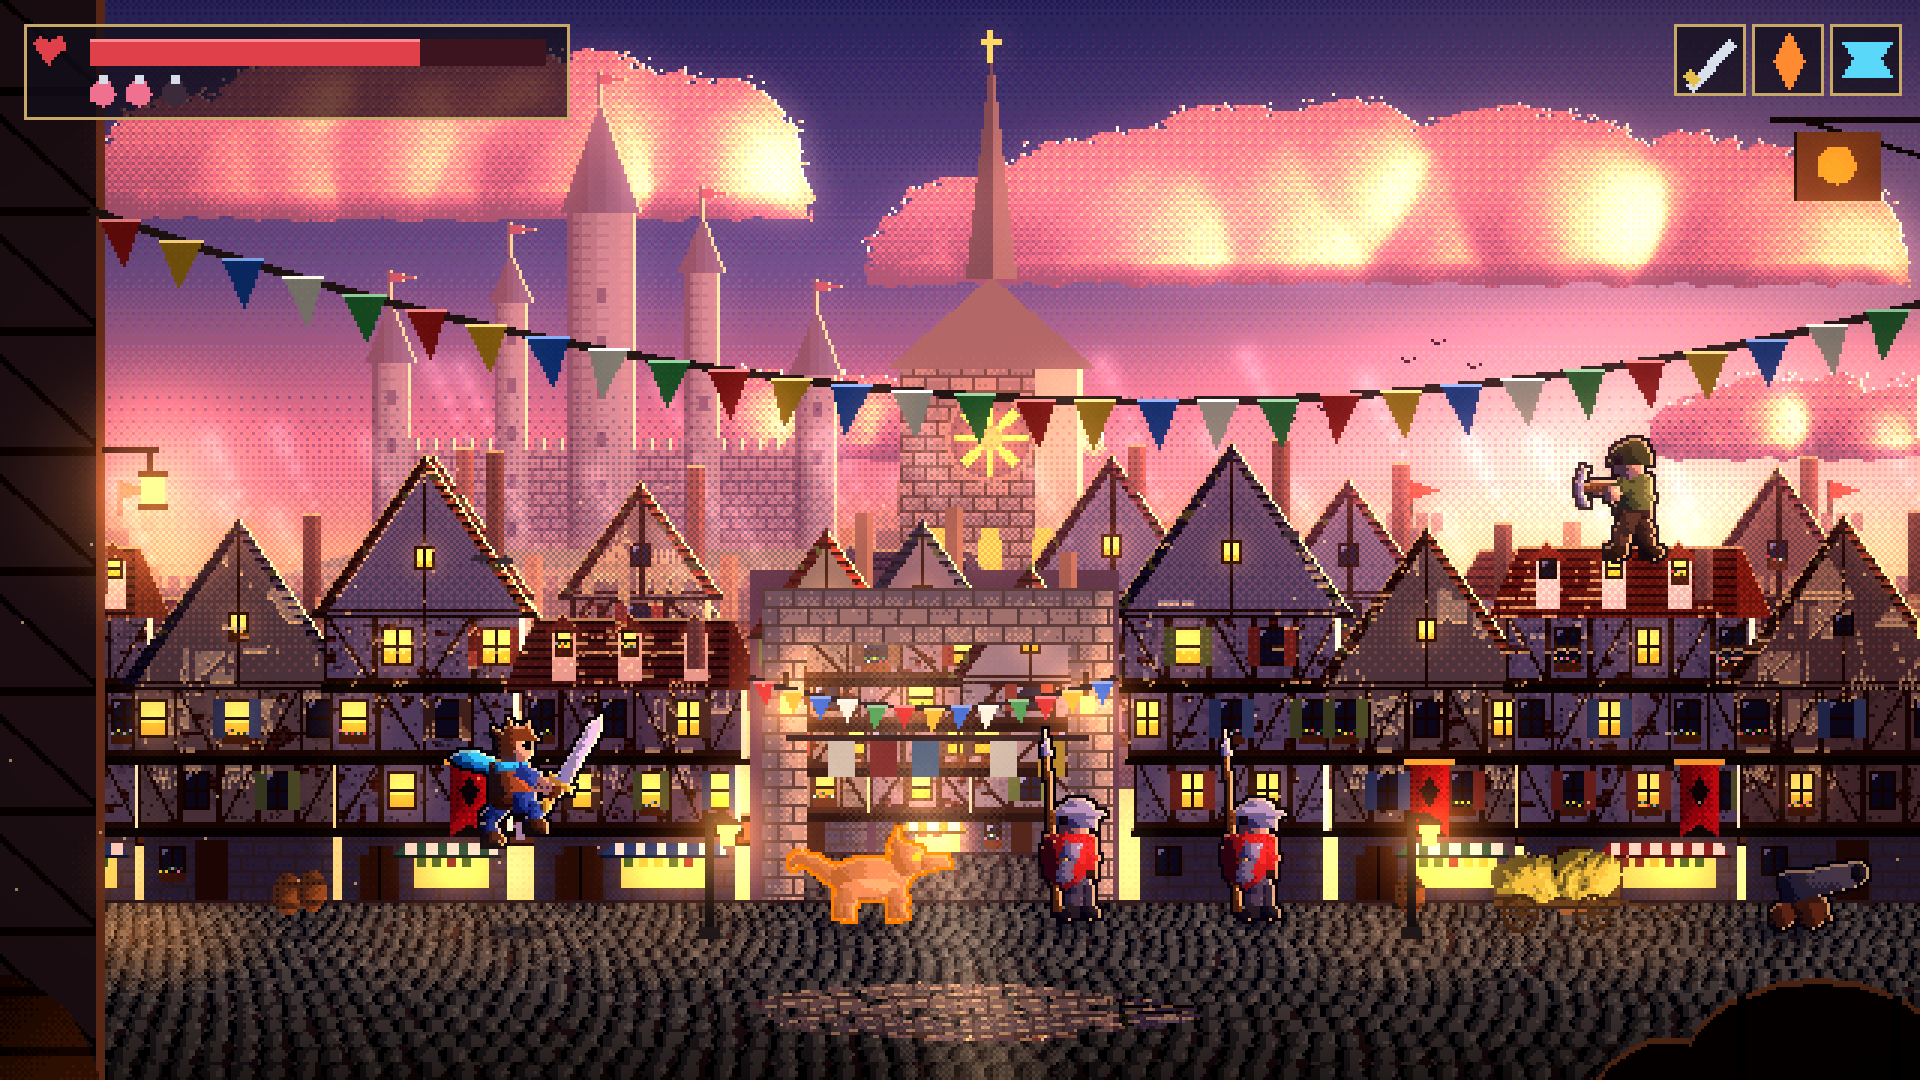
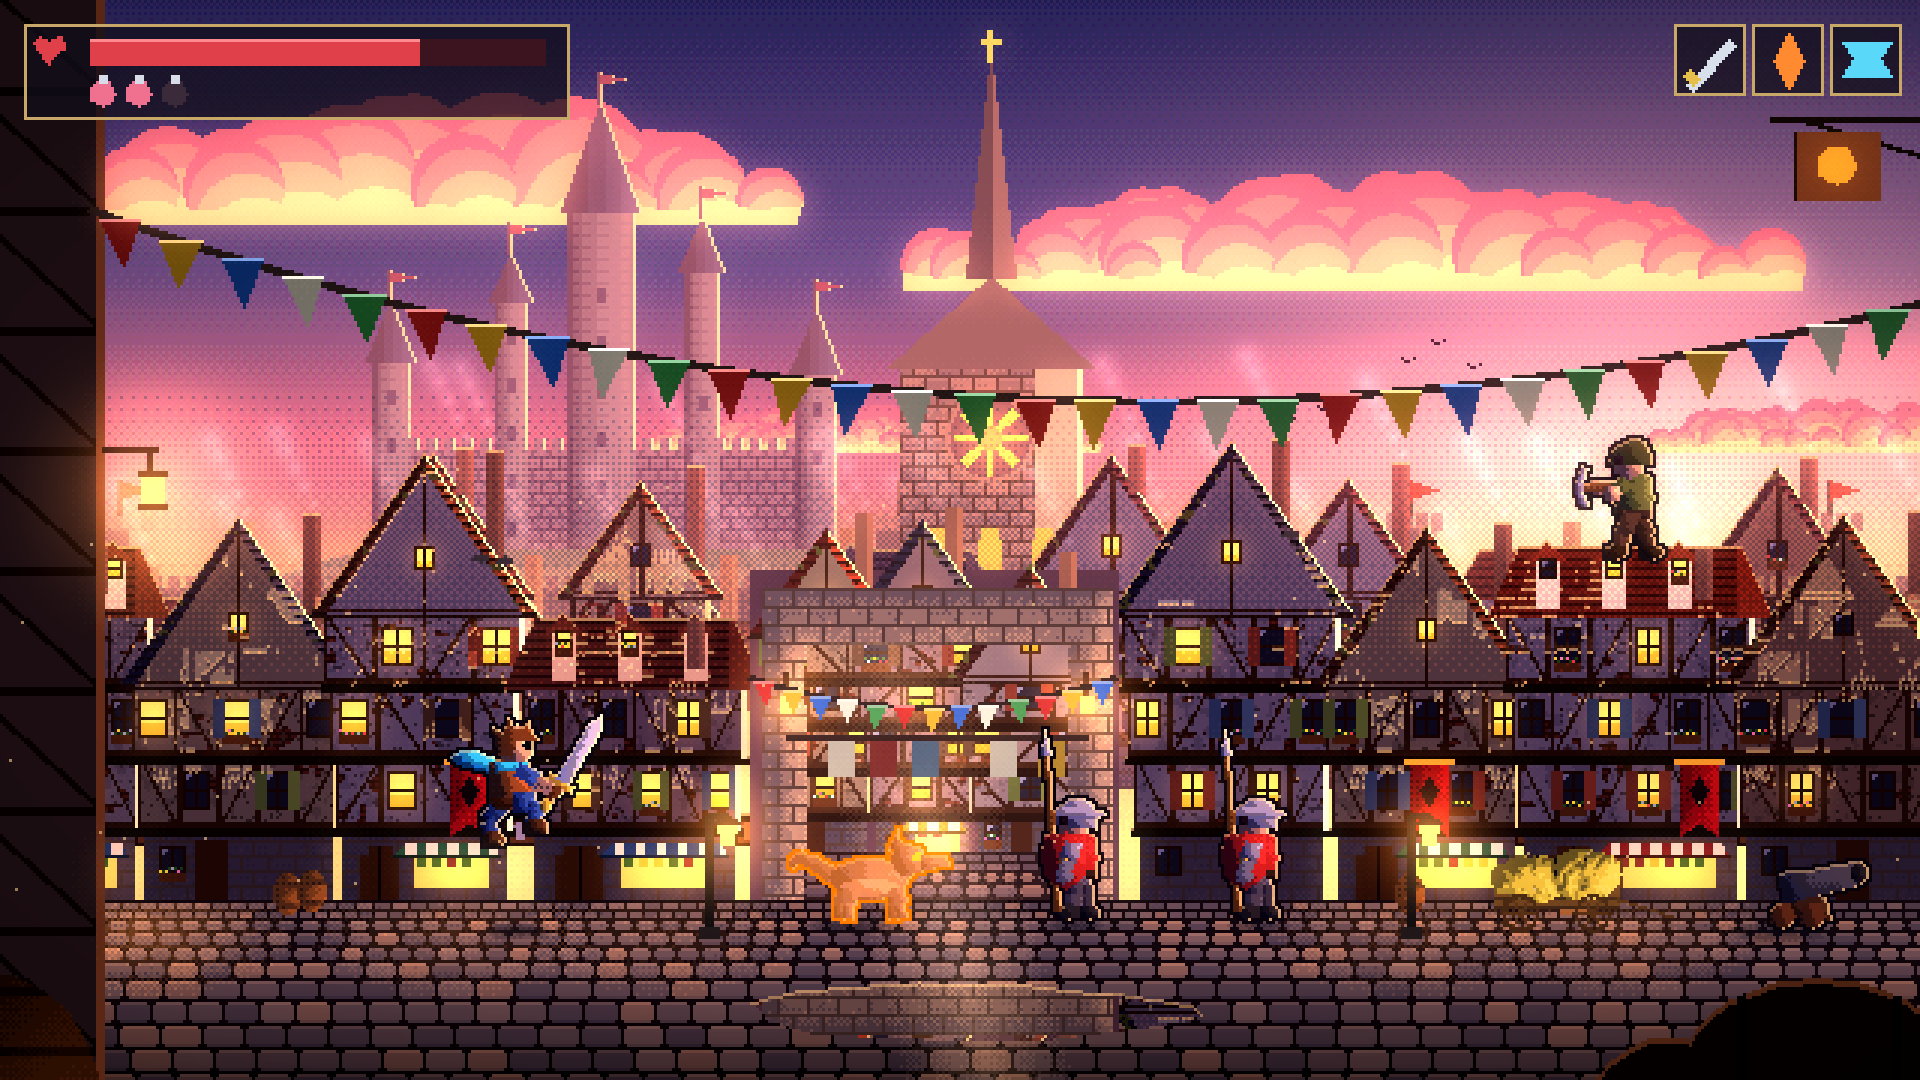
ART13b: less realistic, more stylised: cartoon cumulus in flat tones, chiselled slab rocks, cleaner mountains, tidy cobblestone street in the town
Claude-Session: https://claude.ai/code/session_018E1RbT7Agev2Psz4WcAtF7

diff --git a/tools/art/final_stages.py b/tools/art/final_stages.py
@@ -205,7 +205,7 @@ def leaves(img, m, hf, base, d, seed, cell=3.0, contrast=1.0, edge=True, ramp=No
     if crown is not None:
         ccx, ccy, R = crown
         t = t + ((XX - ccx) / R * L[0] + (YY - ccy) / R * L[1]) * 0.18
-    ramp_fill(img, m, t, ramp, d, 0.3)
+    ramp_fill(img, m, t, ramp, d, 0.1)
     return m
 
 
@@ -322,7 +322,7 @@ def fir(img, x, base, h, w, d, rng, needle=C('#2e5a3a'), snow=0.0, seed=0, bare=
         v = np.clip((Y - top) / np.maximum(1, thick), 0, 1.3)
         side = np.clip(dx / r, -1, 1) * np.sign(L[0])
         t = 0.6 - v * 0.5 + side * 0.2 + (streak - 0.5) * 0.35 - u * 0.06
-        idx = np.clip(np.floor(t * 7 + (bay - 0.5) * 0.4), 0, 6).astype(int)
+        idx = np.clip(np.floor(t * 7 + (bay - 0.5) * 0.12), 0, 6).astype(int)
         col = aerial(ramp[idx], d)
         sub[inside] = col[inside]
         if snow > 0:
@@ -837,37 +837,49 @@ def ridged(x, y, oct_, seed):
     return 1 - np.abs(2 * fbm(x, y, oct_, seed) - 1)
 
 
+def _zig(seed, step, amp=1.0):
+    """An angular zigzag along x: random heights at knots, straight lines between them."""
+    rng = np.random.default_rng(seed)
+    knots = np.arange(-step, W + step * 2, step) + rng.uniform(-step * 0.3, step * 0.3, len(np.arange(-step, W + step * 2, step)))
+    return np.interp(XX[0], knots, rng.uniform(-1, 1, len(knots))) * amp
+
+
 def crag(img, m, alb, d, seed, scale=1.0, snowline=None, snow_k=0.5, strata=True):
-    """Natural rock: one big lit form broken into chunky blocks and ledges by warped ridged noise, a few deep cracks,
-    lichen and moss on the faces that look up; snow on upward faces above the snowline."""
+    """A stylised rock in a few flat tones: a light top plane, a mid front and a dark base, the planes meeting along
+    angular edges; big slabs split by a few dark seams; a bright line on the top edge. No noise, no dithering."""
     if not m.any():
         return
-    wx = XX + (fbm(XX / 22, YY / 22, 3, seed) - 0.5) * 18 * scale
-    wy = YY + (fbm(XX / 22, YY / 22, 3, seed + 9) - 0.5) * 18 * scale
-    big = _blur(m.astype(np.float32), 26 * scale) * 120 * scale + _blur(m.astype(np.float32), 5 * scale) * 14 * scale
-    F1, F2, DX, DY, ID = worley(max(3.0, 9 * scale), seed, 1.4, 0.8)
-    chunk = -_blur(F1.astype(np.float32), 1.0) * 10 * scale                    # chunky blocks, soft-edged
-    g = ridged(wx / (16 * scale), wy / (11 * scale), 4, seed)
-    hf = big + chunk + g * 7 * scale + fbm(wx / (4 * scale), wy / (4 * scale), 2, seed + 1) * 2.5 * scale
-    macro = macro_light(hf)
-    t = 0.04 + macro * 0.86
-    if strata:
-        t = t - np.where(np.sin((wy * 0.8 + wx * 0.1) * 0.55) > 0.95, 0.12, 0)
-    cracks = m & (np.abs(fbm(wx / 8, wy / 4, 3, seed + 4) - 0.5) < 0.006) & (macro < 0.55)
-    t = np.where(cracks, 0.02, t)
-    ramp = make_ramp(alb, 7, hi_k=0.5)
-    ramp_fill(img, m, t, ramp, d, 0.12)
-    gy, gx = np.gradient(_blur(hf, 1.0))
-    upf = -gy / np.sqrt(gx * gx + gy * gy + 1)
-    if d > 0.45:
-        moss = m & (upf > 0.45) & (fbm(XX / 4, YY / 3, 3, seed + 6) > 0.5) & ~np.roll(m, 7, 0)
-        mc = aerial(mix(C('#5a8a3a'), alb, 0.25) * (0.7 + macro[..., None] * 0.5), d)
-        img[moss] = img[moss] * 0.25 + mc[moss] * 0.75
+    L = P['L']
+    ys, xs = np.nonzero(m)
+    cx, hw = (xs.min() + xs.max()) / 2.0, max(4.0, (xs.max() - xs.min()) / 2.0)
+    col_h = np.maximum(m.sum(axis=0), 1).astype(np.float32)[None, :]             # the rock's height in each column
+    dtop = np.cumsum(m, axis=0).astype(np.float32)
+    ref = np.minimum(col_h, 80.0)                                             # tall cliffs keep bands of a sensible size
+    step = max(8.0, 26.0 * scale)
+    b1 = ref * 0.24 + _zig(seed + 1, step, 1.0) * ref * 0.1 + 1.5
+    b2 = ref * 0.62 + _zig(seed + 2, step * 1.3, 1.0) * ref * 0.12
+    band = (dtop > b1).astype(np.int32) + (dtop > b2).astype(np.int32)        # 0 top, 1 front, 2 base
+    t = np.choose(band, [0.84, 0.56, 0.3]).astype(np.float32)
+    t = t + (XX - cx) / hw * 0.1 * np.sign(L[0])
+    bw = max(10.0, 34.0 * scale)                                              # big slabs across the front
+    slab_x = XX + _zig(seed + 3, 9, 1.0)[None, :] * 0 + np.interp(YY[:, 0], np.arange(0, H + 12, 12),
+                                                                  np.random.default_rng(seed + 4).uniform(-4, 4, len(np.arange(0, H + 12, 12))))[:, None]
+    rowh = max(9.0, bw * 0.7)
+    sj = np.floor((dtop + _zig(seed + 5, step * 1.5, 1.0)[None, :] * rowh * 0.3) / rowh)
+    si = np.floor((slab_x + (sj % 2) * bw * 0.5) / bw)
+    hsh = np.modf(np.abs(np.sin(si * 78.233 + sj * 37.719 + seed) * 43758.5453))[0]
+    t = t + np.where(band > 0, (hsh - 0.5) * 0.2, 0)
+    seam = (band > 0) & ((si != np.roll(si, 1, 1)) | (sj != np.roll(sj, 1, 0)))
+    t = np.where(seam, t - 0.25, t)
+    edge1 = (band == 1) & (np.roll(band, 1, 0) == 0)                             # the top plane's front edge catches light
+    t = np.where(edge1, 0.98, t)
+    top = m & ~np.roll(m, 1, 0)
+    t = np.where(top, 1.0, t)
+    ramp = make_ramp(alb, 5, deep=mix(P['amb'] * 0.4, np.asarray(alb, np.float32) * 0.3, 0.5), hi_k=0.45)
+    ramp_fill(img, m, t, ramp, d)
     if snowline is not None:
-        sl = snowline + (fbm(XX / 30, YY * 0, 3, seed + 5) - 0.5) * 50
-        snow = m & (YY < sl) & (upf + (fbm(XX / 6, YY / 5, 3, seed + 7) - 0.5) * 0.6 > 0.3 - snow_k * 0.3)
-        sr = make_ramp(C('#e4ecf8'), 6, deep=C('#2a3a6a'), hi=C('#ffffff'), hi_k=0.9)
-        ramp_fill(img, snow, 0.15 + macro * 0.85, sr, d, 0.3)
+        snow = m & (YY < snowline) & (band == 0)
+        fill(img, snow, aerial(C('#f2f6ff'), d))
 
 
 def ridge_mountain(img, summit, base_y, height, d, seed, alb, snowline=None, arms=(150, 30, 100), spread=1.0):
@@ -898,24 +910,24 @@ def ridge_mountain(img, summit, base_y, height, d, seed, alb, snowline=None, arm
         t = np.clip(((WX - x0) * vx + (WY - y0) * vy) / L2, 0, 1)
         dist = np.hypot(WX - x0 - t * vx, WY - y0 - t * vy)
         hf = np.maximum(hf, h0 + (h1 - h0) * t - dist * 1.0)
-    hf = hf + ridged(WX / 9, WY / 6, 4, seed + 13) * amp * 0.9 + fbm(XX / 3, YY / 3, 2, seed) * 1.2
+    hf = hf + ridged(WX / 16, WY / 10, 2, seed + 13) * amp * 0.5
     m = np.maximum.accumulate(hf > 0, axis=0) & (YY < base_y)          # solid below its outline
     gy, gx = np.gradient(hf)
     Lv = P['L']
     nrm = np.sqrt(gx * gx + gy * gy + 0.6)
     face_l = np.clip((-gx * Lv[0] - gy * Lv[1] + 0.6 * Lv[2]) / nrm, 0, 1)
     t = 0.04 + face_l * 0.88
-    ramp = make_ramp(alb, 7, hi_k=0.45)
-    ramp_fill(img, m, t, ramp, d, 0.35)
+    ramp = make_ramp(alb, 5, deep=mix(P['amb'] * 0.45, np.asarray(alb, np.float32) * 0.35, 0.5), hi_k=0.45)
+    ramp_fill(img, m, t, ramp, d)
     if snowline is not None:
         conc = _blur(hf, 3) - hf                                        # gullies are concave
         sl = snowline + (fbm(XX / 25, YY * 0, 3, seed + 5) - 0.5) * 40
         hi = np.clip((sl - YY) / 60, 0, 1)
         flat_ = -gy / nrm                                             # snow stays where the slope faces up
-        sn_n = fbm(XX / 5, YY / 4, 3, seed + 6)
+        sn_n = fbm(XX / 10, YY / 8, 2, seed + 6)
         snow = m & (YY < sl + 30) & ((conc + (sn_n - 0.5) * 1.2 > 0.7 - hi * 1.3) | (hi > 0.45) & (flat_ + (sn_n - 0.5) * 0.8 > 0.0))
-        sr = make_ramp(C('#e4ecf8'), 6, deep=C('#2a3a6a'), hi=C('#ffffff'), hi_k=0.9)
-        ramp_fill(img, snow, 0.12 + face_l * 0.88, sr, d, 0.35)
+        sr = make_ramp(C('#e4ecf8'), 4, deep=C('#5a6aa0'), hi=C('#ffffff'), hi_k=0.9)
+        ramp_fill(img, snow, 0.12 + face_l * 0.88, sr, d)
     return m
 
 
@@ -1288,28 +1300,36 @@ def house(img, x, base, w, floors, d, seed, fh=24, roof='gable', wall=None, roof
 
 
 def cobbles(img, y0, y1, d, seed, x0=0, x1=W):
-    """A cobbled street: rows of rounded stones, each lit on its sunny side, dark gaps between."""
-    rng = np.random.default_rng(seed)
-    fill(img, rect(x0, y0, x1, y1), lit(C('#4a3a34'), 0.3, d))
-    cl = []
-    y = y0 + 2
-    row = 0
-    while y < y1 + 4:
-        sz = 2.2 + (y - y0) * 0.05
-        x = -sz + (row % 2) * sz
-        while x < W + sz:
-            cl.append((x + rng.normal(0, 0.4), y + rng.normal(0, 0.3), sz * rng.uniform(0.9, 1.15), sz * 0.6, 0))
-            x += sz * 2.1
-        y += sz * 1.15
-        row += 1
-    m, hf = domes(cl, 0.1, seed)
-    m &= (YY >= y0) & (XX >= x0) & (XX < x1)
-    nx, ny = _DN['nx'], _DN['ny']
-    L = P['L']
-    nz = np.sqrt(np.clip(1 - nx * nx * 0.7 - ny * ny * 0.7, 0.05, 1))
-    t = 0.1 + np.clip((nx * L[0] + ny * L[1] * 0.3 + nz * 0.6), 0, 1) * 0.38 + (fbm(XX / 3, YY / 3, 2, seed) - 0.5) * 0.2
-    ramp = make_ramp(C('#6a5e5a'), 6, hi_k=0.35)
-    ramp_fill(img, m, t, ramp, d)
+    """A cobbled street the pixel-art way: tidy staggered rows of rounded stones, the rows getting bigger toward the
+    camera. Every stone is one flat tone (three tones mixed), with a lighter top edge, a darker bottom edge and dark
+    joints between."""
+    y0, y1 = int(y0), int(min(H, y1))
+    region = (YY >= y0) & (YY < y1) & (XX >= x0) & (XX < x1)
+    fill(img, region, lit(C('#2e2424'), 0.25, d))
+    yi, xi0 = YY.astype(int), XX.astype(int)
+    y, hh, ri = y0, 3.0, 0
+    while y < y1:
+        rh = int(round(hh))
+        w_ = int(round(rh * (1.35 + 0.35 * abs(math.sin(ri * 5.3 + seed))))) + 1
+        off = int(abs(math.sin(ri * 12.9898 + seed) * 43758.5453) % w_) + (ri % 2) * (w_ // 2)
+        xi = xi0 + off
+        u_, si, v = xi % w_, xi // w_, yi - y
+        band = region & (v >= 0) & (v < rh)
+        stone = band & (u_ >= 1) & (v >= 1)
+        if rh >= 4:
+            stone &= ~(((u_ == 1) | (u_ == w_ - 1)) & ((v == 1) | (v == rh - 1)))       # rounded corners
+        hsh = np.modf(np.abs(np.sin(si * 78.233 + ri * 37.719 + seed) * 43758.5453))[0]
+        q = 0.3 + 0.12 * np.floor(hsh * 3)
+        if rh >= 4:
+            q = np.where(v == 1, q + 0.2, q)
+        if rh >= 5:
+            q = np.where(v == rh - 1, q - 0.1, q)
+        alb = np.where((hsh > 0.8)[..., None], C('#9a8474'), C('#8a7e78'))
+        col = lit(alb, np.clip(q, 0, 1), d)
+        img[stone] = col[stone]
+        y += rh
+        hh = min(8.0, hh * 1.16)
+        ri += 1
 
 
 def castle_far(img, x, base, s, d, seed):
@@ -1349,9 +1369,9 @@ def city():
     sun_glow(img, *P['sun'], 22, '#fff4d0', 1.0)
     rng = np.random.default_rng(5)
     # sunset clouds, lit from below and from the sun's side
-    sunset = ['#4a2e5e', '#6e3a6e', '#9a4a74', '#c86a7a', '#ec9480', '#ffbc8a', '#ffdaa8', '#fff0d0']
-    for (cx_, cy_, w_, h_, sd) in ((150, 70, 230, 34, 4), (450, 92, 300, 30, 5), (610, 150, 120, 16, 6), (290, 150, 150, 14, 7)):
-        cumulus(img, cx_, cy_, w_, h_, sd, 0.3, ramp=sunset)
+    sunset = ['#3a2450', '#4a2e5e', '#6e3a6e', '#9a4a74', '#c86a7a', '#ec9480', '#ffbc8a', '#ffdaa8']
+    for (cx_, cy_, w_, h_, sd) in ((150, 74, 230, 44, 4), (450, 96, 300, 40, 5), (610, 150, 120, 18, 6), (290, 150, 150, 16, 7)):
+        cumulus(img, cx_, cy_, w_, h_, sd, 0.3, ramp=sunset, light=(0.35, 1.0))
     # the castle on its hill, far away, and the city walls in front of it
     before = img.copy()
     castle_far(img, 200, 190, 1.0, 0.12, 3)
@@ -1458,11 +1478,10 @@ def city():
     shade = np.clip((YY - 320) / 40, 0, 1) * 0.45
     img[:] = img * (1 - shade[..., None])
     pud = mask([spoly((250, 334), (290, 328), (360, 330), (400, 338), (350, 346), (270, 344), n=4)])
-    pud &= fbm(XX / 6, YY / 3, 2, 12) > 0.3
     src = np.clip(2 * 300 - YY - 60, 0, H - 1).astype(int)
     refl = img[src, XX.astype(int)] * 0.7
     img[pud] = refl[pud]
-    fill(img, pud & (np.sin(XX / 3 + YY * 2) > 0.85), C('#ffc890'), 0.4)
+    fill(img, pud & ~np.roll(pud, 1, 0), C('#ffc890'), 0.5)
     # props on the street: barrels, crates, a market stall with fruit
     for (bx, by) in ((96, street), (104, street - 1), (470, street)):
         b_ = mask([ell(bx, by - 6, 4.5, 6.5, 0, 16)])
@@ -1871,43 +1890,65 @@ def fill_holes(m):
     return (np.asarray(im)[1:-1, 1:-1] != 128)
 
 
-def cumulus(img, cx, base, w, h, seed, d=0.1, ramp=None, flat=True, lean=0.0):
-    """A natural cumulus: billows piled wide at the bottom and narrower at the top with a lumpy, wispy outline. The
-    big form is lit as one soft mass (bright on the sun side, cool blue-lavender in its shade, a flat grey base);
-    the small cauliflower billows only show on the lit side, as they do in real clouds."""
+def cumulus(img, cx, base, w, h, seed, d=0.1, ramp=None, flat=True, lean=0.0, light=None):
+    """A classic pixel-art cumulus: round billows heaped on a flat base, painted back to front in a few flat tones.
+    Each billow has a shaded body, a lighter area toward the sun and a white top, so the puffs read clearly; the
+    underside is one cool shadow band. No dithering, no noise."""
     rng = np.random.default_rng(seed)
-    ramp = np.array([C(c) for c in (ramp or CLOUD_RAMP)], np.float32)
+    ramp = [C(c) for c in (ramp or CLOUD_RAMP)]
+    L = P['L'] if light is None else light
+    l2 = math.hypot(L[0], L[1]) + 1e-6
+    lx, ly = L[0] / l2, L[1] / l2
+    u = max(3.0, min(h * 0.4, w * 0.16, 24.0))                               # the size of one billow
+    n_base = max(3, int(round(w / (u * 1.0))))
     puffs = []
-    n = int(w * h / 110) + 16
-    for _ in range(n):
-        t = rng.uniform(0, 1) ** 0.7
-        half = w / 2 * (1 - 0.6 * t ** 1.2) * (1 + 0.12 * math.sin(t * 9 + seed))
-        x = cx + lean * t * h + rng.uniform(-half, half)
-        y = base - t * h
-        r = w * rng.uniform(0.05, 0.15) * (1 - 0.3 * t)
-        puffs.append((x, y, r * rng.uniform(1.0, 1.3), r, r * 0.5 + rng.uniform(0, r)))
-    m, hf = domes(puffs, 0.12, seed)
-    closed = fill_holes(_blur(m.astype(np.float32), 1.5) > 0.4)              # one solid mass, no pin holes
-    hf = np.where(closed & ~m, _blur(np.where(m, hf, 0).astype(np.float32), 2.5) / np.maximum(_blur(m.astype(np.float32), 2.5), 1e-3), hf)
-    m = closed
-    en = fbm(XX / 2.4, YY / 1.8, 2, seed + 3)
-    band = _dilate(m, 2) & _dilate(~m, 2)
-    m = (m & ~(band & (en < 0.3))) | (band & (en > 0.74))
+    for i in range(n_base):                                                  # the row sitting on the base
+        t = (i + 0.5) / n_base
+        prof = math.sin(math.pi * t) ** 0.7
+        r = u * (0.55 + 0.6 * prof) * rng.uniform(0.55, 1.3)
+        puffs.append((cx - w / 2 + w * t + rng.uniform(-u * 0.4, u * 0.4), base - r * 0.7, r, 1))
+    n_top = int(n_base * 1.6 * max(1.0, h / (u * 1.8)))
+    for i in range(n_top):                                                   # billows heaped above, higher in the middle
+        t = rng.uniform(0.12, 0.88)
+        prof = math.sin(math.pi * t) ** 0.9
+        r = u * rng.uniform(0.55, 1.05) * (0.6 + 0.5 * prof)
+        y = base - r * 0.6 - max(0.0, h - r * 1.6) * prof * rng.uniform(0.25, 1.0)
+        puffs.append((cx - w / 2 + w * t + lean * h * prof, y, r, 0))
+    puffs.sort(key=lambda q: (q[3], q[1]))                                   # far and high first, the base row last
+    tone = np.full((H, W), -1, np.int8)
+    for (x, y, r, _k) in puffs:                                              # a solid body under every billow
+        xa, xb = max(0, int(x - r * 0.85)), min(W, int(x + r * 0.85) + 1)
+        ya, yb = max(0, int(y)), min(H, int(base) + 1)
+        if xb > xa and yb > ya:
+            tone[ya:yb, xa:xb] = 3
+    for (x, y, r, _k) in puffs:
+        xa, xb = max(0, int(x - r - 2)), min(W, int(x + r + 3))
+        ya, yb = max(0, int(y - r - 2)), min(H, int(y + r + 3))
+        if xb <= xa or yb <= ya:
+            continue
+        X, Y = XX[ya:yb, xa:xb], YY[ya:yb, xa:xb]
+        sub = tone[ya:yb, xa:xb]
+        disc = (X - x) ** 2 + (Y - y) ** 2 <= r * r
+        sub[disc] = 3
+        for (shift, tn) in ((0.3, 4), (0.75, 5), (1.25, 6)):                   # lens-shaped light toward the sun
+            if r * (2 - shift) < 2.5:
+                continue
+            lit_ = (X - x - lx * r * shift) ** 2 + (Y - y - ly * r * shift) ** 2 <= r * r
+            sub[disc & lit_] = tn
+    m = tone >= 0
     if flat:
-        m &= YY < base + 1 + 3 * fbm(XX / 7, YY * 0, 2, seed)
-    raw = np.where(m, hf, 0).astype(np.float32)
-    big = macro_light(_blur(raw, max(2.5, h * 0.12)) * 1.1)
-    nx, ny = _blur(_DN['nx'].astype(np.float32), 1.6), _blur(_DN['ny'].astype(np.float32), 1.6)
-    L = P['L']
-    nz = np.sqrt(np.clip(1 - nx * nx * 0.8 - ny * ny * 0.8, 0.05, 1))
-    billow = np.clip((nx * L[0] + ny * L[1] + nz * L[2]) / np.sqrt(nx * nx + ny * ny + nz * nz), 0, 1)
-    up = np.clip((base - YY) / max(1.0, h), 0, 1)
-    lit_k = np.clip(big * 1.6 - 0.3, 0, 1)
-    t = 0.1 + big * 0.55 + up * 0.26 + (billow - 0.55) * 0.5 * lit_k - np.clip((YY - base + h * 0.2) / (h * 0.2 + 1), 0, 1) * 0.3
-    ramp_fill(img, m, t, ramp, d, 0.35)
-    L = P['L']
-    rim = m & ~np.roll(m, int(np.sign(-L[0]) or 1), 1) & (up > 0.25)
-    fill(img, rim, aerial(C('#ffffff'), d), 0.8)
+        m &= YY <= base
+    if ly < 0:                                                               # lit from above: a cool shadow band underneath
+        band = max(2.0, u * 0.4) + 1.5 * np.sin(XX / 5.0 + seed) + 1.0 * np.sin(XX / 2.3 + seed * 2)
+        under = m & (YY > base - band)
+        tone[under & (tone >= 4)] = 3
+        tone[m & (YY > base - band * 0.5)] = 2
+    else:                                                                    # lit from below (sunset): a glowing underside
+        band = max(1.5, u * 0.3) + 1.0 * np.sin(XX / 5.0 + seed)
+        tone[m & (YY > base - band)] = 6
+    cols = np.array(ramp, np.float32)[np.clip(tone, 0, len(ramp) - 1)]
+    c = aerial(cols, d)
+    img[m] = c[m]
     return m
 
 
